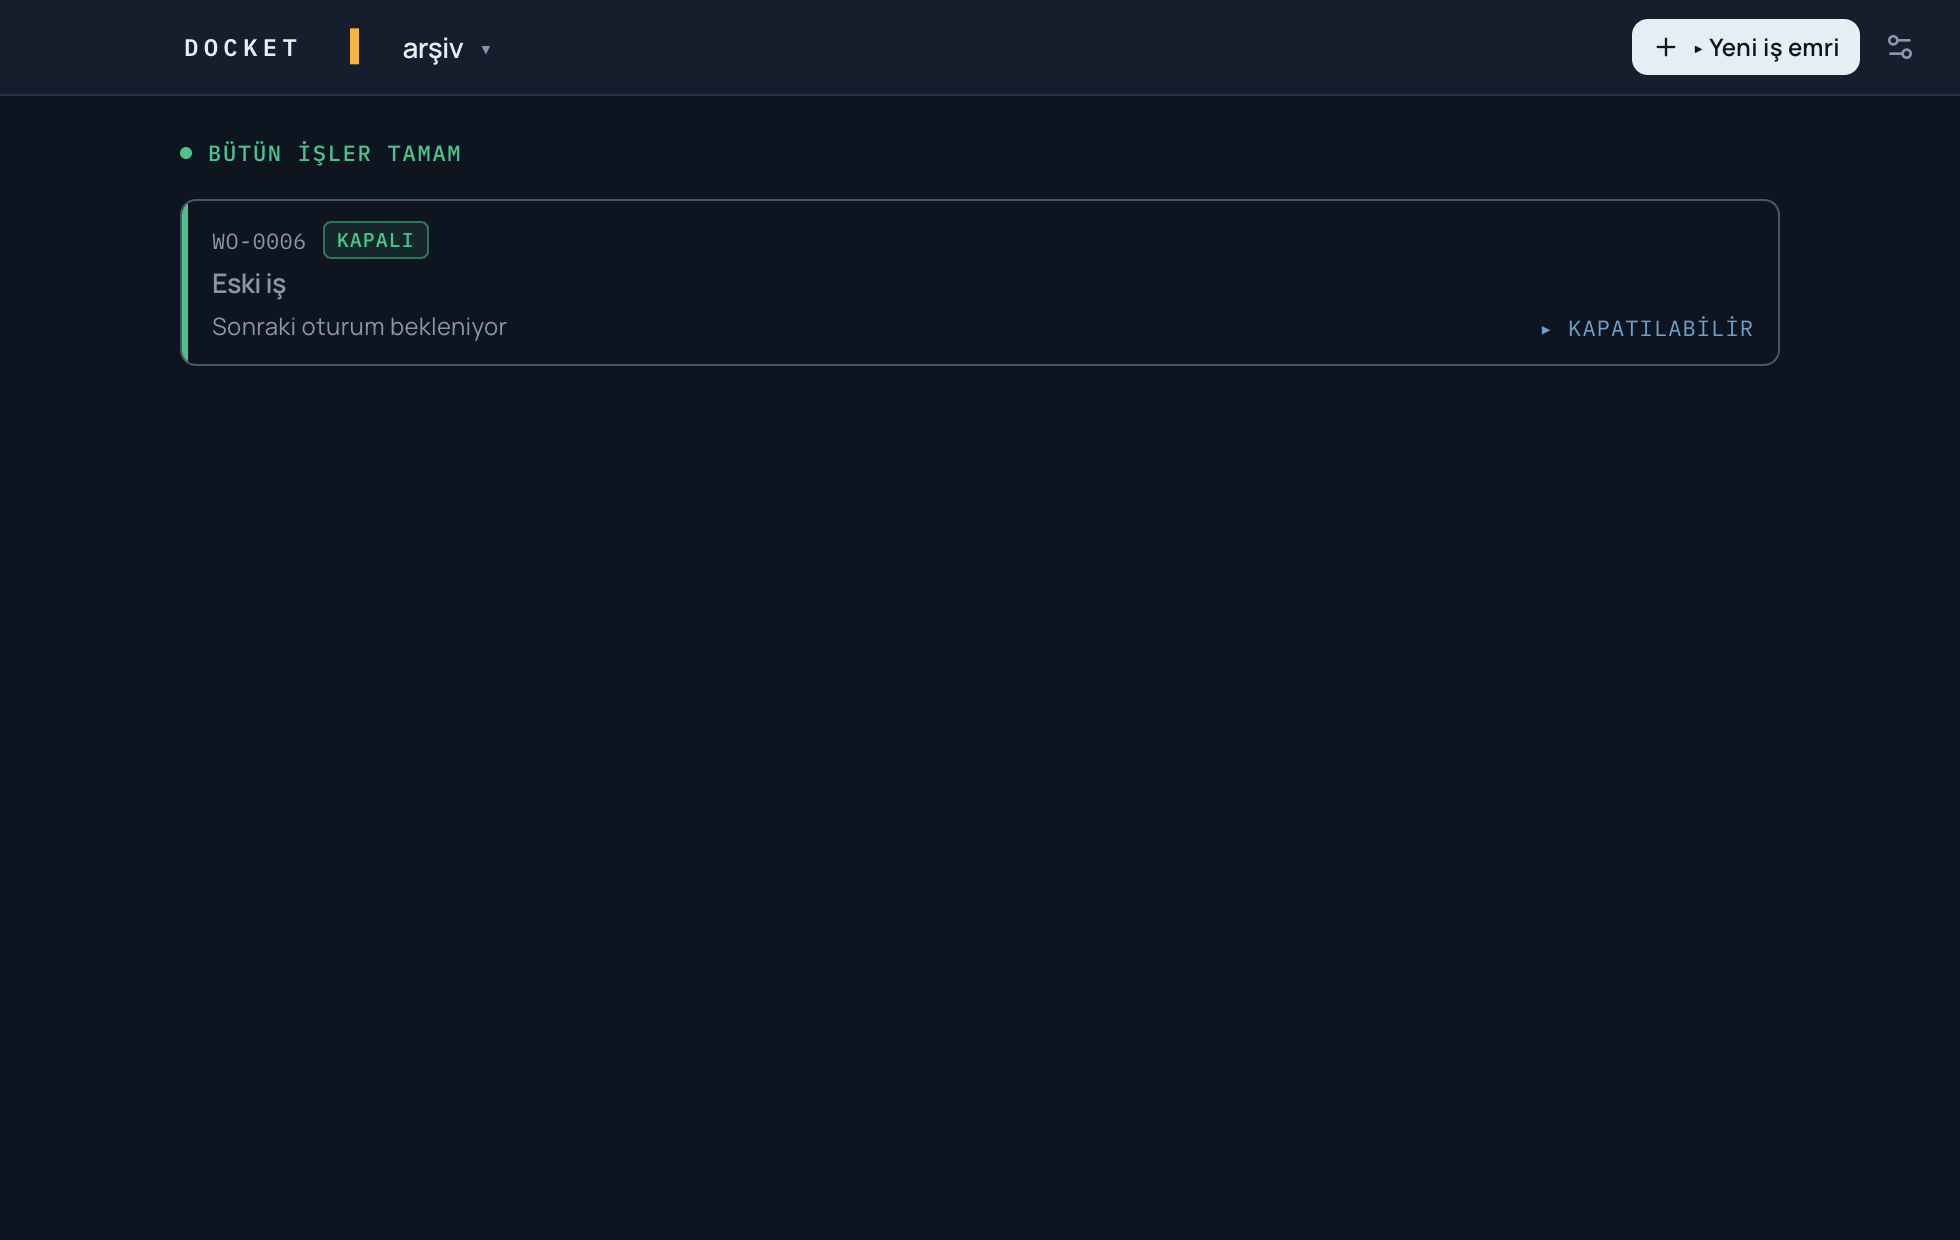
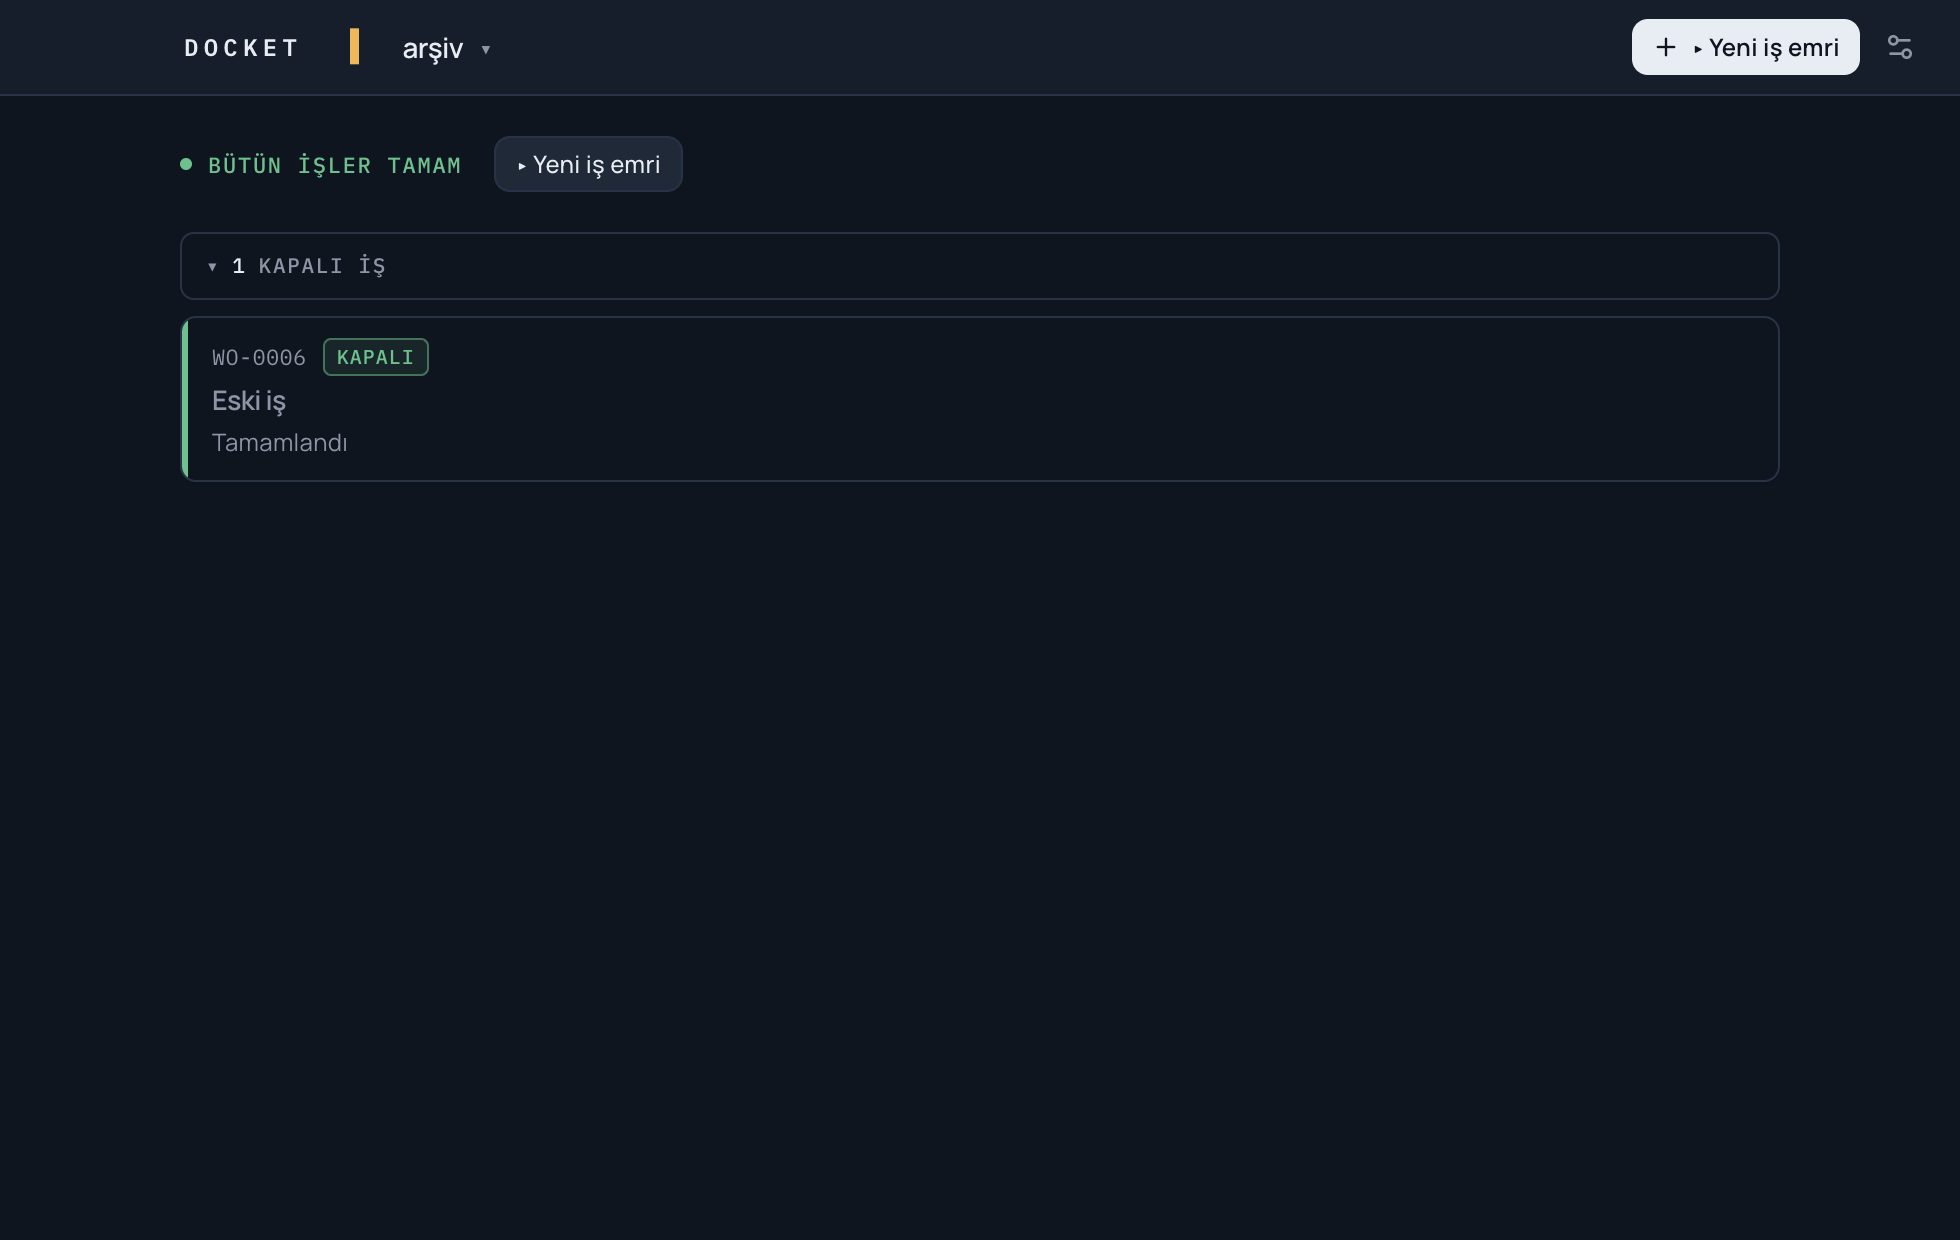
docs(WO-0031f): ADR-0012's two amendments, ROADMAP checked, TD-038 closed / TD-037 narrowed
ADR-0012 gets exactly two one-sentence amendments (the order's stop-and-ask
— both shown verbatim to the operator at PR review):
- r2: a finished surface may carry one invitation CTA beside its state
  line (the peron invitation is the named case).
- r7: entrance glides are the named exception to 'never on mount' (a
  surface entering view on first open or tab change may glide in once,
  ≤400ms translate+fade; re-renders, live appends, and reduced-motion stay
  motionless — the reborn .rise, now contractual).

ROADMAP WO-0031f checked; TD-038 closed (all five items, with how);
TD-037 narrowed (load lines landed; the Çizelge cap moot — the section
died). Also: the index.css additions from the board/feel/stream commits
(glide/pulse/closedtoggle/steprow/streamline/loadline) — the earlier
commits staged src/ui only and src/index.css lives at the root; the
built-and-tested app always carried them, this lands them in history.
Fresh E2E shots from the two-surface world ride along.

Changed region(s): [[0.0934, 0.1226, 0.3423, 0.3677], [0.7781, 0.2452, 0.9026, 0.2758]]

diff --git a/src/index.css b/src/index.css
@@ -146,10 +146,9 @@
     color: var(--color-inkdim);
   }
 
-  /* board load stagger — the one orchestrated moment */
-  .rise {
-    animation: rise 0.26s ease-out both;
-  }
+  /* board load stagger — .rise died with WO-0031f H-3 (the ADR-0012 r7 amendment: entrance glides
+     are the NAMED exception to "never on mount"); the keyframe survives — the kit Tooltip
+     (animate-[rise…] under .tooltip) and .dialog-rise still reference it. */
   @keyframes rise {
     from {
       opacity: 0;
@@ -159,6 +158,68 @@
       opacity: 1;
       transform: none;
     }
+  }
+
+  /* ===== WO-0031f v7 — the entrance glide (H-3, the r7 exception) =====
+     A surface ENTERING VIEW (first board open, a tab switch) glides in ONCE: ≤400ms (drawn at
+     300ms), translate+fade only — no scale, no rotation — siblings staggered ≤40ms. Re-renders and
+     live appends stay motionless (the board applies it to the first batch only); reduced-motion
+     kills it with everything else below. */
+  .glide {
+    animation: glide 0.3s ease-out both;
+  }
+  @keyframes glide {
+    from {
+      opacity: 0;
+      transform: translateY(6px);
+    }
+    to {
+      opacity: 1;
+      transform: none;
+    }
+  }
+  /* the tab pair's entering panel — display-based hiding (the kit's data-[state=inactive]:hidden)
+     restarts the animation on activation without remounting the xterm canvas */
+  .panel-glide[data-state='active'] {
+    animation: glide 0.3s ease-out both;
+  }
+  /* the all-done arrival: one green breath (H-1) — a STATE transition (the platform flip), ≤400ms,
+     then steady; arriving at all-done by mount never pulses */
+  .pulse-once {
+    animation: pulseonce 0.4s ease-out;
+  }
+  @keyframes pulseonce {
+    from {
+      background-color: color-mix(in srgb, var(--color-proceed) 18%, transparent);
+    }
+    to {
+      background-color: transparent;
+    }
+  }
+
+  /* the closed-list toggle (T1): full-width, mono uppercase, the arrow flipping */
+  .closedtoggle {
+    display: flex;
+    width: 100%;
+    align-items: center;
+    gap: 6px;
+    font-family: var(--font-mono);
+    font-size: 10.5px;
+    font-weight: 500;
+    letter-spacing: 0.08em;
+    text-transform: uppercase;
+    color: var(--color-inkdim);
+    border: 1px solid var(--color-hairline);
+    border-radius: 7px;
+    padding: 8px 12px;
+    transition: background-color 0.12s ease, color 0.12s ease;
+  }
+  .closedtoggle:hover {
+    background: color-mix(in srgb, var(--color-raised) 60%, transparent);
+    color: var(--color-ink);
+  }
+  .closedtoggle .n {
+    color: var(--color-ink);
   }
 
   .alink {
@@ -173,6 +234,69 @@
     background: color-mix(in srgb, var(--color-info) 14%, transparent);
   }
 
+  /* ===== WO-0031f v6 — the two-surface chrome ===== */
+
+  /* The Akış | Kayıt tab pair (S1-C shrunk to two): mono uppercase, the 2px signal underline on the
+     active tab, the active count info-toned ("Kayıt 2/3" — the missing one reads at a glance). */
+  .flowtabs {
+    align-self: flex-start;
+  }
+  .flowtab {
+    font-family: var(--font-mono);
+    font-size: 10.5px;
+    font-weight: 500;
+    letter-spacing: 0.07em;
+    text-transform: uppercase;
+  }
+  .flowtab[data-state='active'] {
+    box-shadow: inset 0 -2px 0 var(--color-signal);
+  }
+  .flowtab-n {
+    margin-left: 0.375rem;
+    font-variant-numeric: tabular-nums;
+  }
+  .flowtab[data-state='active'] .flowtab-n {
+    color: var(--color-info);
+  }
+
+  /* The report under its own row (R1): indented under the step it belongs to, a hairline spine
+     naming the ownership — "the detail always reads as belonging to its step". */
+  .repbody {
+    margin: 2px 0 4px 18px;
+    border-left: 2px solid var(--color-hairline);
+    padding: 8px 4px 8px 14px;
+  }
+
+  /* The ≥1080 rack IS Kayıt (v6): a surface-tinted side column, hairline-separated. */
+  .rack {
+    border-left: 1px solid var(--color-hairline);
+    padding-left: 14px;
+  }
+
+  /* The substrip band (v7 §1b treatment C): a surface-tinted band carrying three values — sıra kimde
+     · odak ne · ilerleme kaçta. The turn label is one notch bigger than a readout (12px mono 600);
+     the focus is a quiet mono line; SADE keeps the calm unbandaged line. */
+  .substrip-band {
+    display: flex;
+    align-items: center;
+    gap: 14px;
+    padding: 8px 14px;
+    background: color-mix(in srgb, var(--color-surface) 45%, var(--color-bg));
+  }
+  .subturn {
+    font-family: var(--font-mono);
+    font-size: 12px;
+    font-weight: 600;
+    letter-spacing: 0.06em;
+    text-transform: uppercase;
+  }
+  .subfocus {
+    font-family: var(--font-mono);
+    font-size: 11px;
+    letter-spacing: 0.02em;
+    color: var(--color-inkdim);
+  }
+
   /* the kit Dialog's open rise (WO-0031d) — a NAMED class, not an arbitrary Tailwind animate
      utility, so the one reduced-motion block below can kill it like everything else */
   .dialog-rise[data-state='open'] {
@@ -182,13 +306,15 @@
   /* ===== Ambient glow (WO-0031c / v4 "durum ışığı") =====
      A static radial wash behind the console content, one hue per turn state: amber = waiting on the
      operator, blue = a session runs, green = done/closed, red = crashed. No animation at all — the
-     wash is reduced-motion safe by construction, not by exemption. */
+     wash is reduced-motion safe by construction, not by exemption.
+     WO-0031f D3 ("Sıcak"): the stage light is a tick stronger on the two live-waiting hues (signal
+     .14→.18, run .11→.16 — done/error untouched: calm states do not shout). */
   .glow-signal {
-    background: radial-gradient(ellipse 90% 55% at 50% 0%, rgba(245, 181, 68, 0.14), transparent 62%),
+    background: radial-gradient(ellipse 90% 55% at 50% 0%, rgba(245, 181, 68, 0.18), transparent 62%),
       var(--color-bg);
   }
   .glow-run {
-    background: radial-gradient(ellipse 90% 55% at 50% 0%, rgba(108, 160, 206, 0.11), transparent 62%),
+    background: radial-gradient(ellipse 90% 55% at 50% 0%, rgba(108, 160, 206, 0.16), transparent 62%),
       var(--color-bg);
   }
   .glow-done {
@@ -256,12 +382,116 @@
     transition: width 0.36s ease;
   }
 
-  /* ===== Step card (WO-0031c) — the plan's card language; hover lifts it a hair ===== */
+  /* ===== Step card (WO-0031c) — the plan's card language; hover lifts it a hair =====
+     WO-0031f D3: the card language gains its left edge — boxes stay, but a colored edge names the
+     thing ("kutular kalır + sol kenar renkli"); the plan cards carry the quiet hairline base edge. */
   .stepcard {
     transition: transform 0.12s ease, border-color 0.12s ease;
+    box-shadow: inset 3px 0 0 var(--color-hairline);
   }
   .stepcard:hover {
     transform: translateY(-1px);
+  }
+
+  /* ===== D3 "Sıcak" (WO-0031f Y1 / v5 §01 deltas) — the spine's state edges: the same lamp
+     grammar the strip speaks, as a 3px inset edge on each step row. Exactly four axes change in
+     this pass (step edges, section dots, audit role lamps, the stronger glow above) — palette,
+     fonts, typography scale, spacing band and the hover contract are untouched. ===== */
+  .step-edge {
+    box-shadow: inset 3px 0 0 var(--color-hairline);
+  }
+  .step-edge-done {
+    box-shadow: inset 3px 0 0 var(--color-proceed);
+  }
+  .step-edge-act {
+    box-shadow: inset 3px 0 0 var(--color-info);
+  }
+  /* the rack's section headers open with a dot ("readout nokta ile açılır") */
+  .rack section > h2.readout::before {
+    content: '● ';
+    color: var(--color-hairline);
+  }
+  /* ===== The gaze anchor + the row surface (WO-0031f v7 H-2) =====
+     The spine's row surface lives HERE (not as a Tailwind bg utility) so the spotlight states can
+     speak without specificity fights: the opened report's row is the OWNER (surface raises, its
+     edge names it), and while one holds the gaze the siblings quiet ONE notch by BACKGROUND only —
+     text contrast is untouched (the WO-0031c B4 lesson), and the driven/active row never dims. */
+  .steprow {
+    background: var(--color-surface);
+    border: 1px solid var(--color-hairline);
+  }
+  .steprow.owner {
+    background: var(--color-raised);
+    border-color: #33445f;
+  }
+  .steps.dimmed .steprow:not(.owner):not(.act) {
+    background: color-mix(in srgb, var(--color-surface) 65%, var(--color-bg));
+  }
+  /* the report's arrival under its row: ≤200ms, a translate+fade reveal (the expansion is a state
+     transition caused by the click — the dialog-rise precedent, not a load-in) */
+  .reveal {
+    animation: reveal 0.2s ease-out;
+  }
+  @keyframes reveal {
+    from {
+      opacity: 0;
+      transform: translateY(-4px);
+    }
+    to {
+      opacity: 1;
+      transform: none;
+    }
+  }
+  /* H-1: the substrip segment flip rides a color transition (killed by reduced-motion below) */
+  .segcell {
+    transition: background-color 0.3s ease;
+  }
+
+  /* F7 (WO-0031f): the running-empty stream line — mono, quiet, a 5px run dot breathing. */
+  .streamline {
+    display: flex;
+    align-items: center;
+    gap: 6px;
+    font-family: var(--font-mono);
+    font-size: 11px;
+    color: var(--color-inkdim);
+  }
+
+  /* TD-037 (WO-0031f): the named load lines — one line + a static 5px dot, no skeletons; static by
+     construction, so reduced-motion needs no entry here. */
+  .loadline {
+    display: flex;
+    align-items: center;
+    gap: 6px;
+    font-family: var(--font-mono);
+    font-size: 11px;
+    color: var(--color-inkdim);
+  }
+  .loadline::before {
+    content: '';
+    width: 5px;
+    height: 5px;
+    border-radius: 9999px;
+    background: var(--color-info);
+    flex: none;
+  }
+
+  /* the audit's role lamps (3px×11px): architect amber, implementer blue, verifier green */
+  .rlamp {
+    display: inline-block;
+    width: 3px;
+    height: 11px;
+    border-radius: 2px;
+    flex-shrink: 0;
+  }
+  .rlamp-architect {
+    background: var(--color-signal);
+  }
+  .rlamp-implementer {
+    background: var(--color-info);
+  }
+  .rlamp-verifier {
+    background: var(--color-proceed);
   }
 
   /* ===== Interaction contract (WO-0031d / ADR-0012 r1) — THE hover tokens =====
@@ -378,8 +608,17 @@
   .pop,
   .stepcard,
   .sealpop,
-  .dialog-rise {
+  .dialog-rise,
+  /* WO-0031f v7: the named exceptions die with everything else — the glide is contractual
+     precisely because its kill is contractual (one block, no per-component exemptions). */
+  .glide,
+  .panel-glide[data-state='active'],
+  .pulse-once,
+  .reveal {
     animation: none;
+    transition: none;
+  }
+  .segcell {
     transition: none;
   }
   .ibtn,

diff --git a/docs/tech-debt.md b/docs/tech-debt.md
@@ -41,5 +41,5 @@ that work order can close. Entries are removed only when the debt is actually pa
 | TD-034 | WO-0027 | **DETAY transcript renders plain text.** Assistant/plan lines in the xterm DETAY stream are unformatted (markdown rendering exists only on the plan card). Fixing means a decision — markdown-in-xterm vs a DOM transcript list — not a one-liner; deferred from WO-0027 (Bulgu 4). | low | open |
 | TD-035 | WO-0024 review | **WO numbering is decision-store-scoped but the primary key is global.** `nextWorkOrderNumber` numbers from the workspace's decision-store dir (empty → `WO-0001`), but `work_order.id` is a global PK — a second workspace's first work order collides (`UNIQUE` failure after the order.md insert leaves an orphan `WO-0001-*` dir). Pre-existing since WO-0015, reachable from both hosts. Found + code-path-verified by the WO-0024 verifier and architect; filed here per the review's closure condition. | medium | open |
 | TD-036 | WO-0031c | "**The preload IPC bridge can silently drop port arguments.** A bridge method with fewer parameters than the port signature still typechecks (TS allows narrowing), so `approvePlan`'s `opts` rode nothing across the boundary — the edited-approval count vanished between renderer and store, caught only by an E2E timeline assert. A structural fix (a boundary check comparing preload arity against `WorkOrderSource`/`AppSettings`, or generated bridges) is worth one small WO; until then, port-signature changes must touch preload.ts AND main.ts by hand." | low | open |
-| TD-037 | WO-0031c pre-merge review | "**Faz C P2 fast-follow batch.** Paid by WO-0031d: scroll-margin under the pinned rail, the v4 §7 closure SEAL (now the results card), the comment-rot sweep. Still riding: Çizelge renders unbounded (no cap/virtualization on long timelines); bare `Yükleniyor…` lines for board/detail loads (no skeleton/silence). | low | open |
-| TD-038 | WO-0031d pre-merge review | "**WO-0031d review P2 fast-follows.** (1) the board's `.rise` mount stagger predates and contradicts ADR-0012 r7 "never on mount" — name it THE orchestrated exception in the ADR or remove it; (2) StepList's report link still uses hand-rolled `hover:underline` instead of the `.alink` token (ADR-0012 r1 text-link idiom); (3) the terminal newline pulse's dispose timer is not cleared on unmount (a dispose-on-dead-terminal is harmless today, but the timer should ride the effect's cleanup); (4) the Sil flow surfaces no error — `handleDelete` has try/finally but no catch, so a failed delete closes nothing and says nothing; (5) the second empty-DB E2E app has no console-error collector (its renderer errors would pass the zero-errors spec silently). | low | open |
+| TD-037 | WO-0031c pre-merge review | "**Faz C P2 fast-follow batch.** Paid by WO-0031d: scroll-margin under the pinned rail, the v4 §7 closure SEAL (now the results card), the comment-rot sweep. Still riding: Çizelge renders unbounded (no cap/virtualization on long timelines); bare `Yükleniyor…` lines for board/detail loads (no skeleton/silence). WO-0031f narrowed: the load lines landed (named `.loadline`s per surface); the Çizelge cap item is MOOT — the section itself died (v6 Y-2). | low | narrowed |
+| TD-038 | WO-0031d pre-merge review | "**WO-0031d review P2 fast-follows.** (1) the board's `.rise` mount stagger predates and contradicts ADR-0012 r7 "never on mount" — name it THE orchestrated exception in the ADR or remove it; (2) StepList's report link still uses hand-rolled `hover:underline` instead of the `.alink` token (ADR-0012 r1 text-link idiom); (3) the terminal newline pulse's dispose timer is not cleared on unmount (a dispose-on-dead-terminal is harmless today, but the timer should ride the effect's cleanup); (4) the Sil flow surfaces no error — `handleDelete` has try/finally but no catch, so a failed delete closes nothing and says nothing; (5) the second empty-DB E2E app has no console-error collector (its renderer errors would pass the zero-errors spec silently). WO-0031f closed all five: (1) the glide is ADR-0012 r7's named exception (the reborn, contractual `.rise`); (2) the hand-rolled underline died with the spine — the done row is a real `.irow` toggle; (3) the timer rides the ref + effect cleanup; (4) the Sil dialog owns its error line; (5) the second app collects its own console errors. | low | closed |

diff --git a/docs/adr/ADR-0012-console-interaction-contract.md b/docs/adr/ADR-0012-console-interaction-contract.md
@@ -56,6 +56,9 @@ The first-run experience is the extreme case: an empty database shows the real a
 normal Settings — never a second, lesser chrome) and one invitation line with one CTA. The words are
 the operator's: "Haydi ilk iş emrini açalım".
 
+WO-0031f: a finished surface may carry one invitation CTA beside its state line (the peron
+invitation is the named case).
+
 ## Decision — no explainer copy
 
 Helper and instructional paragraphs are banned. Field names and option labels must carry their own
@@ -99,6 +102,10 @@ Motion is feedback, not decoration, and lives by six rules (the operator's, from
 5. **SADE stays calm**; juice lives in DETAY and in result moments.
 6. No meta-game: no points, no badges, no sound. Feedback is visual and short — a flash, a drawn ✓,
    a filling hairline, a closure seal.
+
+WO-0031f: entrance glides are the named exception to "never on mount" (a surface entering view on
+first open or tab change may glide in once, ≤400ms translate+fade; re-renders, live appends, and
+reduced-motion stay motionless — the reborn `.rise`, now contractual).
 
 ## Consequences
 

diff --git a/ROADMAP.md b/ROADMAP.md
@@ -235,7 +235,7 @@ Claude Code's surface. Only the session pane does, and it is isolated for that r
       done line "Tamamlandı", never "Sonraki oturum bekleniyor". 472 tests (+8); E2E 29 specs (+3,
       seeded `raf` workspace). TD-036 untouched — `closeable` rides the existing `getWorkOrders`
       payload. Spec: `docs/work-orders/WO-0031e-tur-3-cila/order.md`.
-- [ ] **WO-0031f** — UI final turu: three mockup rounds on one day (v5, 12 rulings; v6 structure
+- [x] **WO-0031f** — UI final turu: three mockup rounds on one day (v5, 12 rulings; v6 structure
       tour after "Apple gibi — daha az yüzey"; v7 feel tour after "her şey gerektiğinde… sıcak,
       animasyonlu, oyunlaştırılmış, ödüllendirilmiş, çeken") become one restructure + one feel pass:
       DETAY's six tabs collapse into **Akış | Kayıt** — the live terminal lives **inside the active
